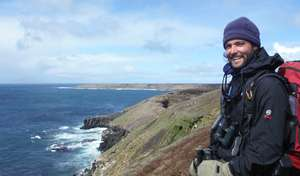
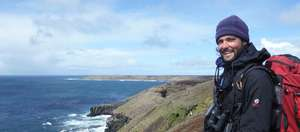
Publii: update content

diff --git a/about-me.html b/about-me.html
@@ -1,6 +1,6 @@
-<!DOCTYPE html><html lang="en-gb"><head><meta charset="utf-8"><meta http-equiv="X-UA-Compatible" content="IE=edge"><meta name="viewport" content="width=device-width,initial-scale=1"><title>Home - Florian Orgeret</title><meta name="generator" content="Publii Open-Source CMS for Static Site"><link rel="canonical" href="https://florianorgeret.github.io/about-me.html"><link rel="alternate" type="application/atom+xml" href="https://florianorgeret.github.io/feed.xml"><link rel="alternate" type="application/json" href="https://florianorgeret.github.io/feed.json"><meta property="og:title" content="Home"><meta property="og:image" content="https://florianorgeret.github.io/media/posts/6/FlorianOrgeret_Cut.JPG"><meta property="og:image:width" content="4056"><meta property="og:image:height" content="2387"><meta property="og:site_name" content="Florian Orgeret"><meta property="og:description" content=""><meta property="og:url" content="https://florianorgeret.github.io/about-me.html"><meta property="og:type" content="article"><link rel="shortcut icon" href="https://florianorgeret.github.io/media/website/favicon.png" type="image/x-icon"><link rel="stylesheet" href="https://florianorgeret.github.io/assets/css/style.css?v=db3dcfb87e0a82c46baf57d0f479736a"><script type="application/ld+json">{"@context":"http://schema.org","@type":"Article","mainEntityOfPage":{"@type":"WebPage","@id":"https://florianorgeret.github.io/about-me.html"},"headline":"Home","datePublished":"2024-01-06T23:30","dateModified":"2024-01-07T00:00","image":{"@type":"ImageObject","url":"https://florianorgeret.github.io/media/posts/6/FlorianOrgeret_Cut.JPG","height":2387,"width":4056},"description":"","author":{"@type":"Person","name":"Florian","url":"https://florianorgeret.github.io/authors/florian/"},"publisher":{"@type":"Organization","name":"Florian"}}</script><noscript><style>img[loading] {
+<!DOCTYPE html><html lang="en-gb"><head><meta charset="utf-8"><meta http-equiv="X-UA-Compatible" content="IE=edge"><meta name="viewport" content="width=device-width,initial-scale=1"><title>Home - Florian Orgeret</title><meta name="generator" content="Publii Open-Source CMS for Static Site"><link rel="canonical" href="https://florianorgeret.github.io/about-me.html"><link rel="alternate" type="application/atom+xml" href="https://florianorgeret.github.io/feed.xml"><link rel="alternate" type="application/json" href="https://florianorgeret.github.io/feed.json"><meta property="og:title" content="Home"><meta property="og:image" content="https://florianorgeret.github.io/media/posts/6/FlorianOrgeret_Cut.JPG"><meta property="og:image:width" content="4504"><meta property="og:image:height" content="1986"><meta property="og:site_name" content="Florian Orgeret"><meta property="og:description" content=""><meta property="og:url" content="https://florianorgeret.github.io/about-me.html"><meta property="og:type" content="article"><link rel="shortcut icon" href="https://florianorgeret.github.io/media/website/favicon.png" type="image/x-icon"><link rel="stylesheet" href="https://florianorgeret.github.io/assets/css/style.css?v=db3dcfb87e0a82c46baf57d0f479736a"><script type="application/ld+json">{"@context":"http://schema.org","@type":"Article","mainEntityOfPage":{"@type":"WebPage","@id":"https://florianorgeret.github.io/about-me.html"},"headline":"Home","datePublished":"2024-01-06T23:30","dateModified":"2024-01-07T00:47","image":{"@type":"ImageObject","url":"https://florianorgeret.github.io/media/posts/6/FlorianOrgeret_Cut.JPG","height":1986,"width":4504},"description":"","author":{"@type":"Person","name":"Florian","url":"https://florianorgeret.github.io/authors/florian/"},"publisher":{"@type":"Organization","name":"Florian"}}</script><noscript><style>img[loading] {
                     opacity: 1;
-                }</style></noscript></head><body><div class="site-container"><header class="top" id="js-header"><a class="logo" href="https://florianorgeret.github.io/index.html">Florian Orgeret</a><nav class="navbar js-navbar"><button class="navbar__toggle js-toggle" aria-label="Menu" aria-haspopup="true" aria-expanded="false"><span class="navbar__toggle-box"><span class="navbar__toggle-inner">Menu</span></span></button><ul class="navbar__menu"><li><a href="https://florianorgeret.github.io/research.html" target="_self">Research</a></li><li><a href="https://florianorgeret.github.io/research-topics.html" target="_self">Topics</a></li><li><a href="https://florianorgeret.github.io/publications.html" target="_self">Publications</a></li><li><a href="https://florianorgeret.github.io/curriculum.html" target="_self">CV</a></li><li><a href="https://florianorgeret.github.io/contact.html" target="_self">Contact</a></li></ul></nav></header><main><article class="post"><div class="hero"><figure class="hero__image hero__image--overlay"><img src="https://florianorgeret.github.io/media/posts/6/FlorianOrgeret_Cut.JPG" srcset="https://florianorgeret.github.io/media/posts/6/responsive/FlorianOrgeret_Cut-xs.JPG 300w, https://florianorgeret.github.io/media/posts/6/responsive/FlorianOrgeret_Cut-sm.JPG 480w, https://florianorgeret.github.io/media/posts/6/responsive/FlorianOrgeret_Cut-md.JPG 768w, https://florianorgeret.github.io/media/posts/6/responsive/FlorianOrgeret_Cut-lg.JPG 1024w, https://florianorgeret.github.io/media/posts/6/responsive/FlorianOrgeret_Cut-xl.JPG 1360w, https://florianorgeret.github.io/media/posts/6/responsive/FlorianOrgeret_Cut-2xl.JPG 1600w" sizes="(max-width: 1600px) 100vw, 1600px" loading="eager" height="2387" width="4056" alt=""><figcaption>Cap Noir at Kerguelent Island (© Solène Lebreton)</figcaption></figure><header class="hero__content"><div class="wrapper"><h1>Home</h1></div></header></div><div class="wrapper post__entry"><p>As an evolutionary ecologist, my main focus is on ontogeny, movement ecology, and dispersal. I specialize in analyzing extensive datasets from biologging and tracking devices deployed on juvenile animals. My main research aims to better understand the development of individual variation with age and its potential impact on metapopulation dynamics, especially in relation to global change.<br><br>My career is characterized by a dedication to continuous learning and the promotion of knowledge exchange through organizing regular, informal hands-on workshops. These sessions enable me not only to pass on new analysis techniques, but also to encourage participants from different institutions to make their own contributions. I am deeply convinced that this mutual sharing of knowledge is essential to our collective advancement and progress!</p><p>I am currently a postdoctoral researcher at the Swiss Ornithological Institute's Ecological Research Unit, working on the <a href="https://www.vogelwarte.ch/modx/en/projects/ecological-research/mechanisms-of-population-dynamics-in-red-kites" target="_blank" rel="noopener">red kite project</a> up to the end of 2024.</p></div></article></main><footer class="footer"><div class="footer__copyright"><p><a href="https://scholar.google.com/citations?user=yj-6paQAAAAJ&amp;hl=fr&amp;oi=ao" target="_blank" rel="noopener">Google Scholar</a> | <a href="https://www.researchgate.net/profile/Florian-Orgeret" target="_blank" rel="noopener">Research Gate</a> | <a href="https://twitter.com/FlOrgeret">Twitter (X)</a> | <a href="https://github.com/florianorgeret">GitHub</a></p><p>© Florian Orgeret 2024 | Powered by Publii using the Simple theme.</p></div><button onclick="backToTopFunction()" id="backToTop" class="footer__bttop" aria-label="Back to top" title="Back to top"><svg><use xlink:href="https://florianorgeret.github.io/assets/svg/svg-map.svg#toparrow"/></svg></button></footer></div><script defer="defer" src="https://florianorgeret.github.io/assets/js/scripts.min.js?v=f47c11534595205f20935f0db2a62a85"></script><script>window.publiiThemeMenuConfig={mobileMenuMode:'sidebar',animationSpeed:300,submenuWidth: 'auto',doubleClickTime:500,mobileMenuExpandableSubmenus:true,relatedContainerForOverlayMenuSelector:'.top'};</script><script>var images = document.querySelectorAll('img[loading]');
+                }</style></noscript></head><body><div class="site-container"><header class="top" id="js-header"><a class="logo" href="https://florianorgeret.github.io/index.html">Florian Orgeret</a><nav class="navbar js-navbar"><button class="navbar__toggle js-toggle" aria-label="Menu" aria-haspopup="true" aria-expanded="false"><span class="navbar__toggle-box"><span class="navbar__toggle-inner">Menu</span></span></button><ul class="navbar__menu"><li><a href="https://florianorgeret.github.io/research.html" target="_self">Research</a></li><li><a href="https://florianorgeret.github.io/research-topics.html" target="_self">Topics</a></li><li><a href="https://florianorgeret.github.io/publications.html" target="_self">Publications</a></li><li><a href="https://florianorgeret.github.io/curriculum.html" target="_self">CV</a></li><li><a href="https://florianorgeret.github.io/contact.html" target="_self">Contact</a></li></ul></nav></header><main><article class="post"><div class="hero"><figure class="hero__image hero__image--overlay"><img src="https://florianorgeret.github.io/media/posts/6/FlorianOrgeret_Cut.JPG" srcset="https://florianorgeret.github.io/media/posts/6/responsive/FlorianOrgeret_Cut-xs.JPG 300w, https://florianorgeret.github.io/media/posts/6/responsive/FlorianOrgeret_Cut-sm.JPG 480w, https://florianorgeret.github.io/media/posts/6/responsive/FlorianOrgeret_Cut-md.JPG 768w, https://florianorgeret.github.io/media/posts/6/responsive/FlorianOrgeret_Cut-lg.JPG 1024w, https://florianorgeret.github.io/media/posts/6/responsive/FlorianOrgeret_Cut-xl.JPG 1360w, https://florianorgeret.github.io/media/posts/6/responsive/FlorianOrgeret_Cut-2xl.JPG 1600w" sizes="(max-width: 1600px) 100vw, 1600px" loading="eager" height="1986" width="4504" alt=""><figcaption>Cap Noir at Kerguelent Island (© Solène Lebreton)</figcaption></figure><header class="hero__content"><div class="wrapper"><h1>Home</h1></div></header></div><div class="wrapper post__entry"><p>As an evolutionary ecologist, my main focus is on ontogeny, movement ecology, and dispersal. I specialize in analyzing extensive datasets from biologging and tracking devices deployed on juvenile animals. My main research aims to better understand the development of individual variation with age and its potential impact on metapopulation dynamics, especially in relation to global change.<br><br>My career is characterized by a dedication to continuous learning and the promotion of knowledge exchange through organizing regular, informal hands-on workshops. These sessions enable me not only to pass on new analysis techniques, but also to encourage participants from different institutions to make their own contributions. I am deeply convinced that this mutual sharing of knowledge is essential to our collective advancement and progress!</p><p>I am currently a postdoctoral researcher at the Swiss Ornithological Institute's Ecological Research Unit, working on the <a href="https://www.vogelwarte.ch/modx/en/projects/ecological-research/mechanisms-of-population-dynamics-in-red-kites" target="_blank" rel="noopener">red kite project</a> up to the end of 2024.</p></div></article></main><footer class="footer"><div class="footer__copyright"><p><a href="https://scholar.google.com/citations?user=yj-6paQAAAAJ&amp;hl=fr&amp;oi=ao" target="_blank" rel="noopener">Google Scholar</a> | <a href="https://www.researchgate.net/profile/Florian-Orgeret" target="_blank" rel="noopener">Research Gate</a> | <a href="https://twitter.com/FlOrgeret">Twitter (X)</a> | <a href="https://github.com/florianorgeret">GitHub</a></p><p>© Florian Orgeret 2024 | Powered by Publii using the Simple theme.</p></div><button onclick="backToTopFunction()" id="backToTop" class="footer__bttop" aria-label="Back to top" title="Back to top"><svg><use xlink:href="https://florianorgeret.github.io/assets/svg/svg-map.svg#toparrow"/></svg></button></footer></div><script defer="defer" src="https://florianorgeret.github.io/assets/js/scripts.min.js?v=f47c11534595205f20935f0db2a62a85"></script><script>window.publiiThemeMenuConfig={mobileMenuMode:'sidebar',animationSpeed:300,submenuWidth: 'auto',doubleClickTime:500,mobileMenuExpandableSubmenus:true,relatedContainerForOverlayMenuSelector:'.top'};</script><script>var images = document.querySelectorAll('img[loading]');
         for (var i = 0; i < images.length; i++) {
             if (images[i].complete) {
                 images[i].classList.add('is-loaded');

diff --git a/page/2/index.html b/page/2/index.html
@@ -1,6 +1,6 @@
 <!DOCTYPE html><html lang="en-gb"><head><meta charset="utf-8"><meta http-equiv="X-UA-Compatible" content="IE=edge"><meta name="viewport" content="width=device-width,initial-scale=1"><title>Florian Orgeret</title><meta name="generator" content="Publii Open-Source CMS for Static Site"><link rel="canonical" href="https://florianorgeret.github.io/page/2/"><link rel="alternate" type="application/atom+xml" href="https://florianorgeret.github.io/feed.xml"><link rel="alternate" type="application/json" href="https://florianorgeret.github.io/feed.json"><meta property="og:title" content="Florian Orgeret"><meta property="og:site_name" content="Florian Orgeret"><meta property="og:description" content=""><meta property="og:url" content="https://florianorgeret.github.io/page/2/"><meta property="og:type" content="website"><link rel="shortcut icon" href="https://florianorgeret.github.io/media/website/favicon.png" type="image/x-icon"><link rel="prev" href="https://florianorgeret.github.io/index.html"><link rel="stylesheet" href="https://florianorgeret.github.io/assets/css/style.css?v=db3dcfb87e0a82c46baf57d0f479736a"><script type="application/ld+json">{"@context":"http://schema.org","@type":"Organization","name":"Florian Orgeret","url":"https://florianorgeret.github.io/index.html"}</script><noscript><style>img[loading] {
                     opacity: 1;
-                }</style></noscript></head><body><div class="site-container"><header class="top" id="js-header"><a class="logo" href="https://florianorgeret.github.io/index.html">Florian Orgeret</a><nav class="navbar js-navbar"><button class="navbar__toggle js-toggle" aria-label="Menu" aria-haspopup="true" aria-expanded="false"><span class="navbar__toggle-box"><span class="navbar__toggle-inner">Menu</span></span></button><ul class="navbar__menu"><li><a href="https://florianorgeret.github.io/research.html" target="_self">Research</a></li><li><a href="https://florianorgeret.github.io/research-topics.html" target="_self">Topics</a></li><li><a href="https://florianorgeret.github.io/publications.html" target="_self">Publications</a></li><li><a href="https://florianorgeret.github.io/curriculum.html" target="_self">CV</a></li><li><a href="https://florianorgeret.github.io/contact.html" target="_self">Contact</a></li></ul></nav></header><main><article class="post"><div class="hero"><figure class="hero__image hero__image--overlay"><img src="https://florianorgeret.github.io/media/posts/6/FlorianOrgeret_Cut.JPG" loading="eager" height="2387" width="4056" alt=""><figcaption>Cap Noir at Kerguelent Island (© Solène Lebreton)</figcaption></figure><header class="hero__content"><div class="wrapper"><h1>Home</h1></div></header></div><div class="wrapper post__entry"><p>As an evolutionary ecologist, my main focus is on ontogeny, movement ecology, and dispersal. I specialize in analyzing extensive datasets from biologging and tracking devices deployed on juvenile animals. My main research aims to better understand the development of individual variation with age and its potential impact on metapopulation dynamics, especially in relation to global change.<br><br>My career is characterized by a dedication to continuous learning and the promotion of knowledge exchange through organizing regular, informal hands-on workshops. These sessions enable me not only to pass on new analysis techniques, but also to encourage participants from different institutions to make their own contributions. I am deeply convinced that this mutual sharing of knowledge is essential to our collective advancement and progress!</p><p>I am currently a postdoctoral researcher at the Swiss Ornithological Institute's Ecological Research Unit, working on the <a href="https://www.vogelwarte.ch/modx/en/projects/ecological-research/mechanisms-of-population-dynamics-in-red-kites" target="_blank" rel="noopener">red kite project</a> up to the end of 2024.</p></div></article></main><footer class="footer"><div class="footer__copyright"><p><a href="https://scholar.google.com/citations?user=yj-6paQAAAAJ&amp;hl=fr&amp;oi=ao" target="_blank" rel="noopener">Google Scholar</a> | <a href="https://www.researchgate.net/profile/Florian-Orgeret" target="_blank" rel="noopener">Research Gate</a> | <a href="https://twitter.com/FlOrgeret">Twitter (X)</a> | <a href="https://github.com/florianorgeret">GitHub</a></p><p>© Florian Orgeret 2024 | Powered by Publii using the Simple theme.</p></div><button onclick="backToTopFunction()" id="backToTop" class="footer__bttop" aria-label="Back to top" title="Back to top"><svg><use xlink:href="https://florianorgeret.github.io/assets/svg/svg-map.svg#toparrow"/></svg></button></footer></div><script defer="defer" src="https://florianorgeret.github.io/assets/js/scripts.min.js?v=f47c11534595205f20935f0db2a62a85"></script><script>window.publiiThemeMenuConfig={mobileMenuMode:'sidebar',animationSpeed:300,submenuWidth: 'auto',doubleClickTime:500,mobileMenuExpandableSubmenus:true,relatedContainerForOverlayMenuSelector:'.top'};</script><script>var images = document.querySelectorAll('img[loading]');
+                }</style></noscript></head><body><div class="site-container"><header class="top" id="js-header"><a class="logo" href="https://florianorgeret.github.io/index.html">Florian Orgeret</a><nav class="navbar js-navbar"><button class="navbar__toggle js-toggle" aria-label="Menu" aria-haspopup="true" aria-expanded="false"><span class="navbar__toggle-box"><span class="navbar__toggle-inner">Menu</span></span></button><ul class="navbar__menu"><li><a href="https://florianorgeret.github.io/research.html" target="_self">Research</a></li><li><a href="https://florianorgeret.github.io/research-topics.html" target="_self">Topics</a></li><li><a href="https://florianorgeret.github.io/publications.html" target="_self">Publications</a></li><li><a href="https://florianorgeret.github.io/curriculum.html" target="_self">CV</a></li><li><a href="https://florianorgeret.github.io/contact.html" target="_self">Contact</a></li></ul></nav></header><main><article class="post"><div class="hero"><figure class="hero__image hero__image--overlay"><img src="https://florianorgeret.github.io/media/posts/6/FlorianOrgeret_Cut.JPG" loading="eager" height="1986" width="4504" alt=""><figcaption>Cap Noir at Kerguelent Island (© Solène Lebreton)</figcaption></figure><header class="hero__content"><div class="wrapper"><h1>Home</h1></div></header></div><div class="wrapper post__entry"><p>As an evolutionary ecologist, my main focus is on ontogeny, movement ecology, and dispersal. I specialize in analyzing extensive datasets from biologging and tracking devices deployed on juvenile animals. My main research aims to better understand the development of individual variation with age and its potential impact on metapopulation dynamics, especially in relation to global change.<br><br>My career is characterized by a dedication to continuous learning and the promotion of knowledge exchange through organizing regular, informal hands-on workshops. These sessions enable me not only to pass on new analysis techniques, but also to encourage participants from different institutions to make their own contributions. I am deeply convinced that this mutual sharing of knowledge is essential to our collective advancement and progress!</p><p>I am currently a postdoctoral researcher at the Swiss Ornithological Institute's Ecological Research Unit, working on the <a href="https://www.vogelwarte.ch/modx/en/projects/ecological-research/mechanisms-of-population-dynamics-in-red-kites" target="_blank" rel="noopener">red kite project</a> up to the end of 2024.</p></div></article></main><footer class="footer"><div class="footer__copyright"><p><a href="https://scholar.google.com/citations?user=yj-6paQAAAAJ&amp;hl=fr&amp;oi=ao" target="_blank" rel="noopener">Google Scholar</a> | <a href="https://www.researchgate.net/profile/Florian-Orgeret" target="_blank" rel="noopener">Research Gate</a> | <a href="https://twitter.com/FlOrgeret">Twitter (X)</a> | <a href="https://github.com/florianorgeret">GitHub</a></p><p>© Florian Orgeret 2024 | Powered by Publii using the Simple theme.</p></div><button onclick="backToTopFunction()" id="backToTop" class="footer__bttop" aria-label="Back to top" title="Back to top"><svg><use xlink:href="https://florianorgeret.github.io/assets/svg/svg-map.svg#toparrow"/></svg></button></footer></div><script defer="defer" src="https://florianorgeret.github.io/assets/js/scripts.min.js?v=f47c11534595205f20935f0db2a62a85"></script><script>window.publiiThemeMenuConfig={mobileMenuMode:'sidebar',animationSpeed:300,submenuWidth: 'auto',doubleClickTime:500,mobileMenuExpandableSubmenus:true,relatedContainerForOverlayMenuSelector:'.top'};</script><script>var images = document.querySelectorAll('img[loading]');
         for (var i = 0; i < images.length; i++) {
             if (images[i].complete) {
                 images[i].classList.add('is-loaded');

diff --git a/index.html b/index.html
@@ -1,6 +1,6 @@
 <!DOCTYPE html><html lang="en-gb"><head><meta charset="utf-8"><meta http-equiv="X-UA-Compatible" content="IE=edge"><meta name="viewport" content="width=device-width,initial-scale=1"><title>Florian Orgeret</title><meta name="generator" content="Publii Open-Source CMS for Static Site"><link rel="canonical" href="https://florianorgeret.github.io/"><link rel="alternate" type="application/atom+xml" href="https://florianorgeret.github.io/feed.xml"><link rel="alternate" type="application/json" href="https://florianorgeret.github.io/feed.json"><meta property="og:title" content="Florian Orgeret"><meta property="og:site_name" content="Florian Orgeret"><meta property="og:description" content=""><meta property="og:url" content="https://florianorgeret.github.io/"><meta property="og:type" content="website"><link rel="shortcut icon" href="https://florianorgeret.github.io/media/website/favicon.png" type="image/x-icon"><link rel="next" href="https://florianorgeret.github.io/page/2/index.html"><link rel="stylesheet" href="https://florianorgeret.github.io/assets/css/style.css?v=db3dcfb87e0a82c46baf57d0f479736a"><script type="application/ld+json">{"@context":"http://schema.org","@type":"Organization","name":"Florian Orgeret","url":"https://florianorgeret.github.io/index.html"}</script><noscript><style>img[loading] {
                     opacity: 1;
-                }</style></noscript></head><body><div class="site-container"><header class="top" id="js-header"><a class="logo" href="https://florianorgeret.github.io/index.html">Florian Orgeret</a><nav class="navbar js-navbar"><button class="navbar__toggle js-toggle" aria-label="Menu" aria-haspopup="true" aria-expanded="false"><span class="navbar__toggle-box"><span class="navbar__toggle-inner">Menu</span></span></button><ul class="navbar__menu"><li><a href="https://florianorgeret.github.io/research.html" target="_self">Research</a></li><li><a href="https://florianorgeret.github.io/research-topics.html" target="_self">Topics</a></li><li><a href="https://florianorgeret.github.io/publications.html" target="_self">Publications</a></li><li><a href="https://florianorgeret.github.io/curriculum.html" target="_self">CV</a></li><li><a href="https://florianorgeret.github.io/contact.html" target="_self">Contact</a></li></ul></nav></header><main><article class="post"><div class="hero"><figure class="hero__image hero__image--overlay"><img src="https://florianorgeret.github.io/media/posts/6/FlorianOrgeret_Cut.JPG" loading="eager" height="2387" width="4056" alt=""><figcaption>Cap Noir at Kerguelent Island (© Solène Lebreton)</figcaption></figure><header class="hero__content"><div class="wrapper"><h1>Home</h1></div></header></div><div class="wrapper post__entry"><p>As an evolutionary ecologist, my main focus is on ontogeny, movement ecology, and dispersal. I specialize in analyzing extensive datasets from biologging and tracking devices deployed on juvenile animals. My main research aims to better understand the development of individual variation with age and its potential impact on metapopulation dynamics, especially in relation to global change.<br><br>My career is characterized by a dedication to continuous learning and the promotion of knowledge exchange through organizing regular, informal hands-on workshops. These sessions enable me not only to pass on new analysis techniques, but also to encourage participants from different institutions to make their own contributions. I am deeply convinced that this mutual sharing of knowledge is essential to our collective advancement and progress!</p><p>I am currently a postdoctoral researcher at the Swiss Ornithological Institute's Ecological Research Unit, working on the <a href="https://www.vogelwarte.ch/modx/en/projects/ecological-research/mechanisms-of-population-dynamics-in-red-kites" target="_blank" rel="noopener">red kite project</a> up to the end of 2024.</p></div></article></main><footer class="footer"><div class="footer__copyright"><p><a href="https://scholar.google.com/citations?user=yj-6paQAAAAJ&amp;hl=fr&amp;oi=ao" target="_blank" rel="noopener">Google Scholar</a> | <a href="https://www.researchgate.net/profile/Florian-Orgeret" target="_blank" rel="noopener">Research Gate</a> | <a href="https://twitter.com/FlOrgeret">Twitter (X)</a> | <a href="https://github.com/florianorgeret">GitHub</a></p><p>© Florian Orgeret 2024 | Powered by Publii using the Simple theme.</p></div><button onclick="backToTopFunction()" id="backToTop" class="footer__bttop" aria-label="Back to top" title="Back to top"><svg><use xlink:href="https://florianorgeret.github.io/assets/svg/svg-map.svg#toparrow"/></svg></button></footer></div><script defer="defer" src="https://florianorgeret.github.io/assets/js/scripts.min.js?v=f47c11534595205f20935f0db2a62a85"></script><script>window.publiiThemeMenuConfig={mobileMenuMode:'sidebar',animationSpeed:300,submenuWidth: 'auto',doubleClickTime:500,mobileMenuExpandableSubmenus:true,relatedContainerForOverlayMenuSelector:'.top'};</script><script>var images = document.querySelectorAll('img[loading]');
+                }</style></noscript></head><body><div class="site-container"><header class="top" id="js-header"><a class="logo" href="https://florianorgeret.github.io/index.html">Florian Orgeret</a><nav class="navbar js-navbar"><button class="navbar__toggle js-toggle" aria-label="Menu" aria-haspopup="true" aria-expanded="false"><span class="navbar__toggle-box"><span class="navbar__toggle-inner">Menu</span></span></button><ul class="navbar__menu"><li><a href="https://florianorgeret.github.io/research.html" target="_self">Research</a></li><li><a href="https://florianorgeret.github.io/research-topics.html" target="_self">Topics</a></li><li><a href="https://florianorgeret.github.io/publications.html" target="_self">Publications</a></li><li><a href="https://florianorgeret.github.io/curriculum.html" target="_self">CV</a></li><li><a href="https://florianorgeret.github.io/contact.html" target="_self">Contact</a></li></ul></nav></header><main><article class="post"><div class="hero"><figure class="hero__image hero__image--overlay"><img src="https://florianorgeret.github.io/media/posts/6/FlorianOrgeret_Cut.JPG" loading="eager" height="1986" width="4504" alt=""><figcaption>Cap Noir at Kerguelent Island (© Solène Lebreton)</figcaption></figure><header class="hero__content"><div class="wrapper"><h1>Home</h1></div></header></div><div class="wrapper post__entry"><p>As an evolutionary ecologist, my main focus is on ontogeny, movement ecology, and dispersal. I specialize in analyzing extensive datasets from biologging and tracking devices deployed on juvenile animals. My main research aims to better understand the development of individual variation with age and its potential impact on metapopulation dynamics, especially in relation to global change.<br><br>My career is characterized by a dedication to continuous learning and the promotion of knowledge exchange through organizing regular, informal hands-on workshops. These sessions enable me not only to pass on new analysis techniques, but also to encourage participants from different institutions to make their own contributions. I am deeply convinced that this mutual sharing of knowledge is essential to our collective advancement and progress!</p><p>I am currently a postdoctoral researcher at the Swiss Ornithological Institute's Ecological Research Unit, working on the <a href="https://www.vogelwarte.ch/modx/en/projects/ecological-research/mechanisms-of-population-dynamics-in-red-kites" target="_blank" rel="noopener">red kite project</a> up to the end of 2024.</p></div></article></main><footer class="footer"><div class="footer__copyright"><p><a href="https://scholar.google.com/citations?user=yj-6paQAAAAJ&amp;hl=fr&amp;oi=ao" target="_blank" rel="noopener">Google Scholar</a> | <a href="https://www.researchgate.net/profile/Florian-Orgeret" target="_blank" rel="noopener">Research Gate</a> | <a href="https://twitter.com/FlOrgeret">Twitter (X)</a> | <a href="https://github.com/florianorgeret">GitHub</a></p><p>© Florian Orgeret 2024 | Powered by Publii using the Simple theme.</p></div><button onclick="backToTopFunction()" id="backToTop" class="footer__bttop" aria-label="Back to top" title="Back to top"><svg><use xlink:href="https://florianorgeret.github.io/assets/svg/svg-map.svg#toparrow"/></svg></button></footer></div><script defer="defer" src="https://florianorgeret.github.io/assets/js/scripts.min.js?v=f47c11534595205f20935f0db2a62a85"></script><script>window.publiiThemeMenuConfig={mobileMenuMode:'sidebar',animationSpeed:300,submenuWidth: 'auto',doubleClickTime:500,mobileMenuExpandableSubmenus:true,relatedContainerForOverlayMenuSelector:'.top'};</script><script>var images = document.querySelectorAll('img[loading]');
         for (var i = 0; i < images.length; i++) {
             if (images[i].complete) {
                 images[i].classList.add('is-loaded');
